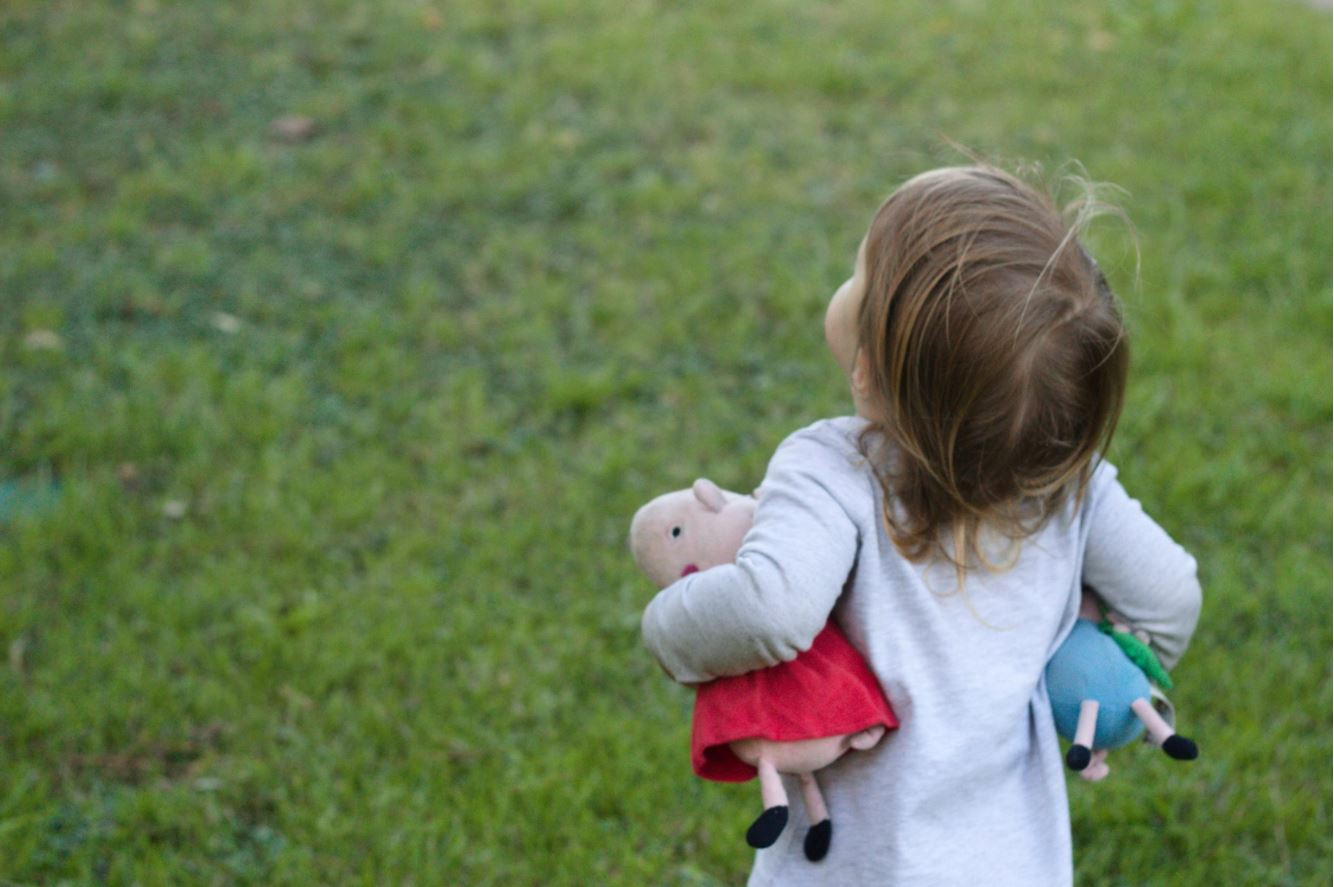
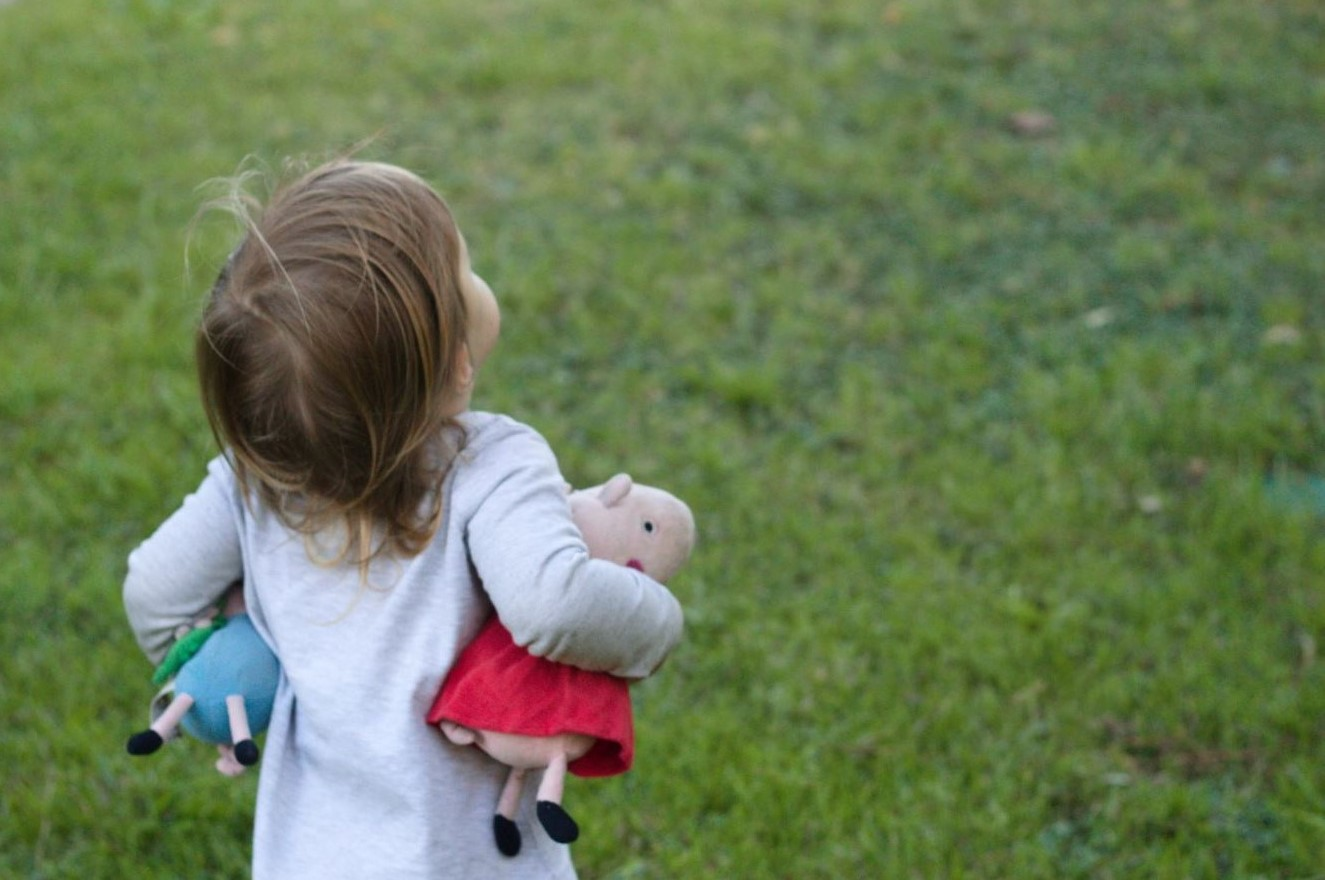
Agrego responsive

diff --git a/main.scss b/main.scss
@@ -4,20 +4,28 @@ body{
 
 .photo-container{
     display: flex;
+    height: 100vh;
 
     &:hover{
         .photo:not(:hover){
             filter: saturate(0);
         }
     }
+
+    @media(max-width:800px){
+        flex-direction: column;
+    }
 }
 
 h2{
     color: cornsilk;
-    position: relative;
+    position: absolute;
     font-size: 60px;
-    transform: translate(500px, 0);
+    transform: translate(40%, 50%);
     transition: .4s;
+    z-index: 20;
+    
+    width: 360px;
     
 
     &::before{
@@ -37,15 +45,24 @@ h2{
     transition: flex-basis .6s, filter 1.2s;
     filter: saturate(.5);
     position: relative;
+    width: 100%;
+
+    @media(max-width:800px){
+        background-position: center;
+    }
 
 
     &:hover{
         flex-basis: 150%;
         filter: saturate(1.5);
 
+      
+
         h2{
-            transform: translate(500px, -550px);
-           
+            transform: translate(40%, -750%);
+            margin: auto;
+
+        
 
             &::before{
             border-top: 1px solid cornsilk;

diff --git a/main.css b/main.css
@@ -4,17 +4,25 @@ body {
 
 .photo-container {
   display: flex;
+  height: 100vh;
 }
 .photo-container:hover .photo:not(:hover) {
   filter: saturate(0);
 }
+@media (max-width: 800px) {
+  .photo-container {
+    flex-direction: column;
+  }
+}
 
 h2 {
   color: cornsilk;
-  position: relative;
+  position: absolute;
   font-size: 60px;
-  transform: translate(500px, 0);
+  transform: translate(40%, 50%);
   transition: .4s;
+  z-index: 20;
+  width: 360px;
 }
 h2::before {
   content: "";
@@ -32,13 +40,20 @@ h2::before {
   transition: flex-basis .6s, filter 1.2s;
   filter: saturate(0.5);
   position: relative;
+  width: 100%;
+}
+@media (max-width: 800px) {
+  .photo {
+    background-position: center;
+  }
 }
 .photo:hover {
   flex-basis: 150%;
   filter: saturate(1.5);
 }
 .photo:hover h2 {
-  transform: translate(500px, -550px);
+  transform: translate(40%, -750%);
+  margin: auto;
 }
 .photo:hover h2::before {
   border-top: 1px solid cornsilk;

diff --git a/index.html b/index.html
@@ -2,6 +2,7 @@
 <html>
     <head>
         <link rel="stylesheet" type="text/css" href="main.css">
+        <title>Slider</title>
         <script> </script>
     </head>
     <body>
